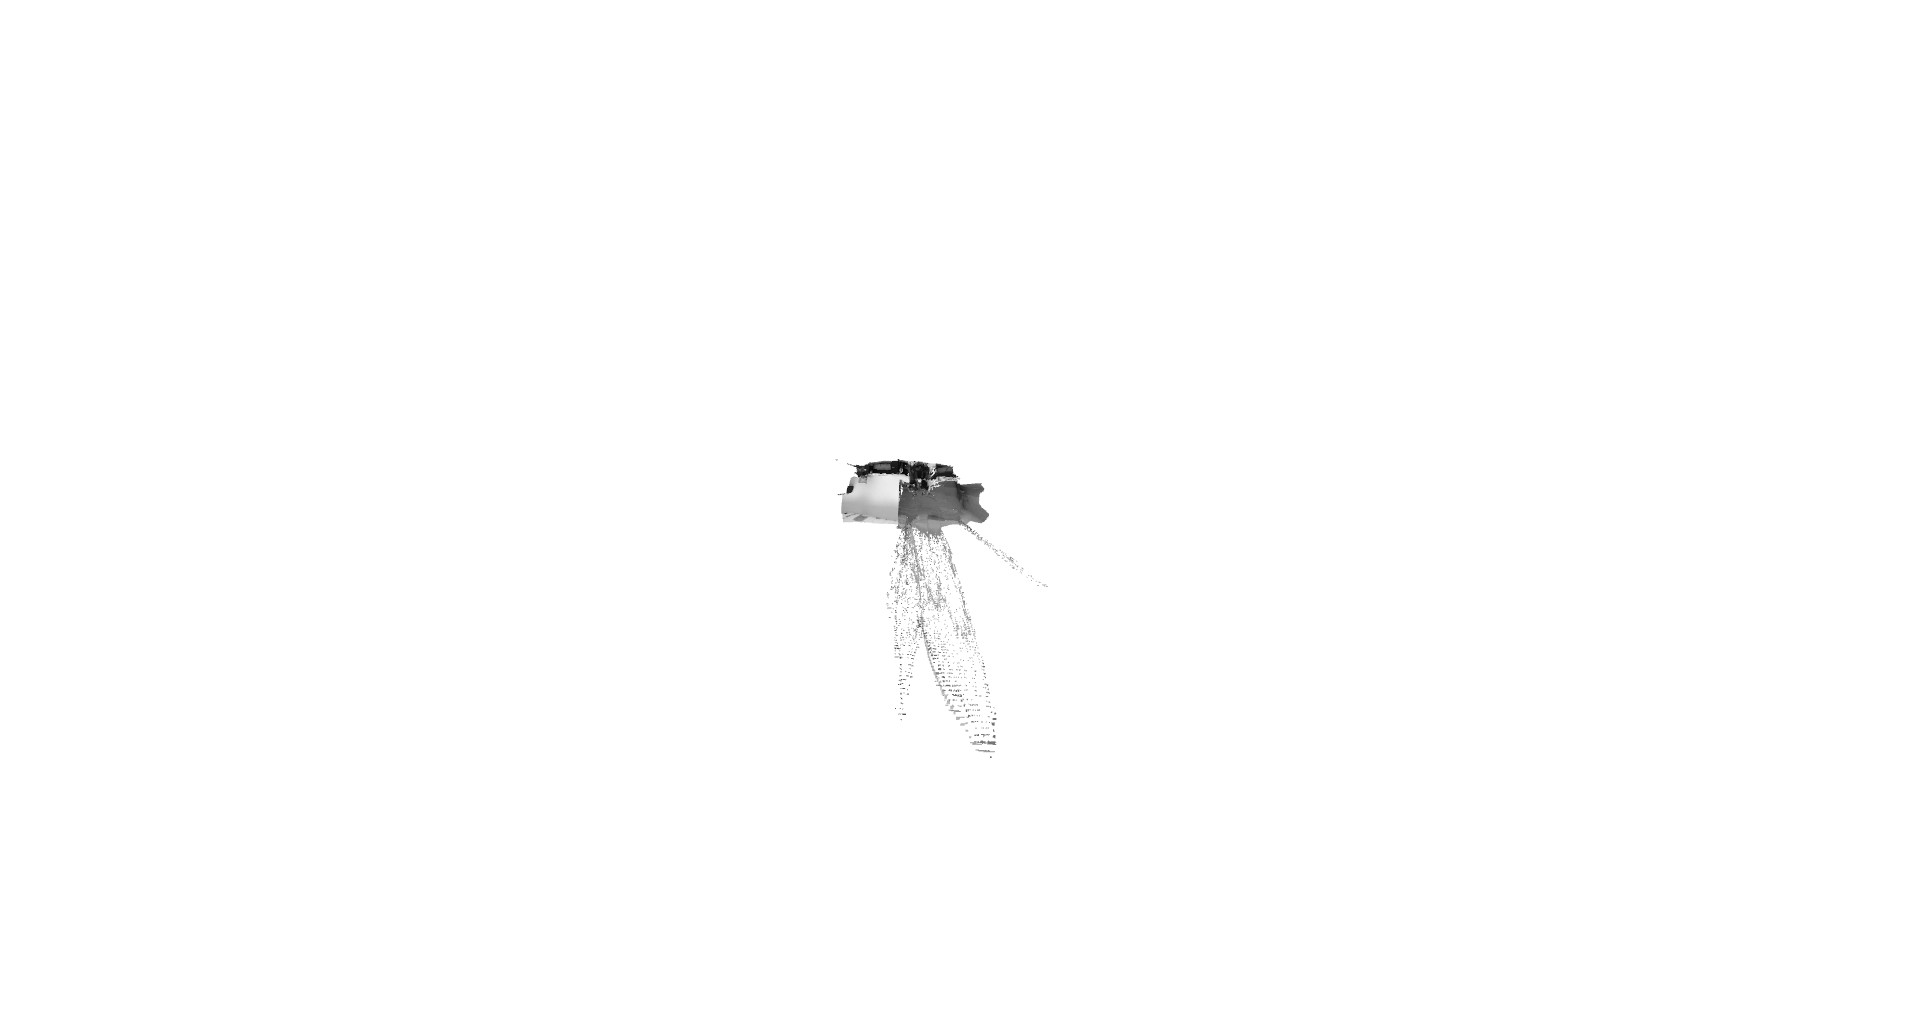
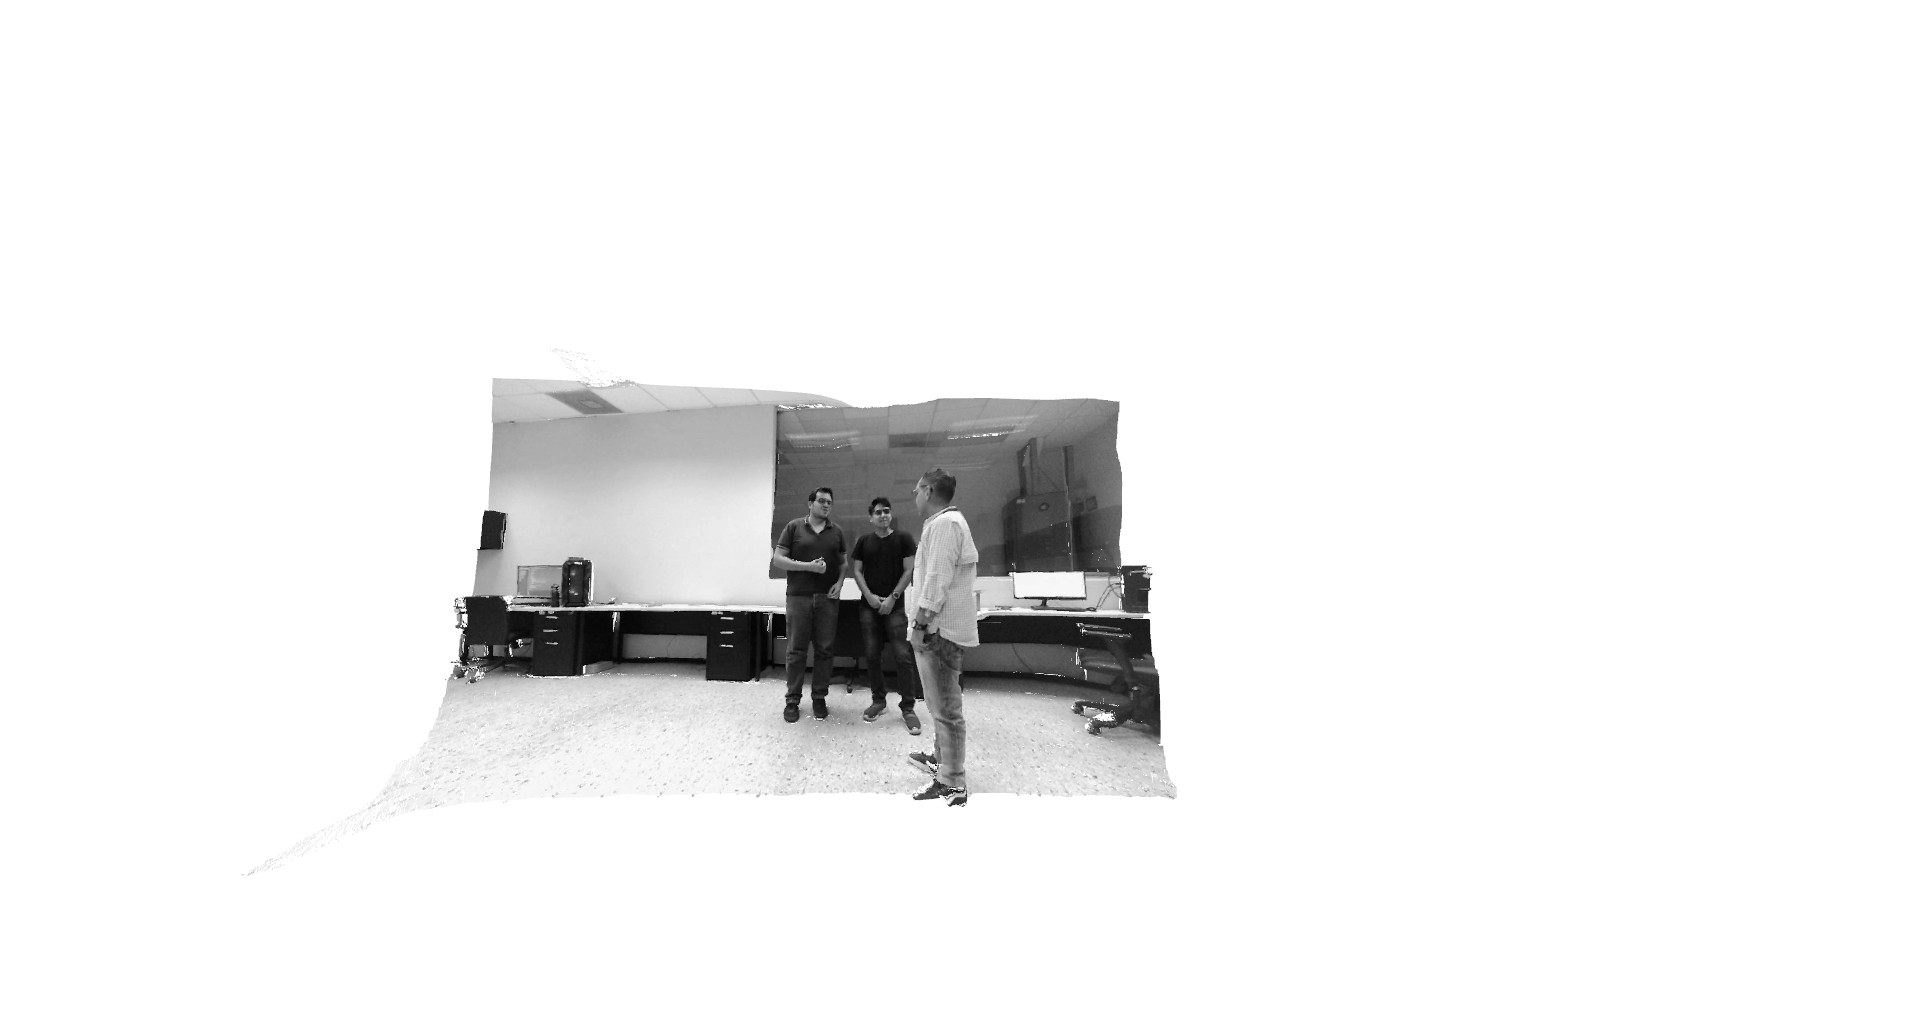
Fix video visualization

Changed region(s): [[0.2188, 0.3661, 0.625, 0.7933]]

diff --git a/dense_point_cloud/video_visualization.py b/dense_point_cloud/video_visualization.py
@@ -28,40 +28,34 @@ pista_nombre = 'dense'  # Dejar vacío si no se necesita
 archivos = listar_archivos(carpeta, extension, pista_nombre)
 archivos = sorted(archivos, key=lambda s: int(re.findall(r'\d+', s)[1]))
 
-
+# Configuración de la vista
 view_config = {
 	"class_name" : "ViewTrajectory",
 	"interval" : 29,
+	"is_loop" : False,
 	"trajectory" : 
 	[
 		{
 			"boundingbox_max" : [ 219.53413391113281, 58.269557952880859, 850.05814117438558 ],
-			"boundingbox_min" : [ -90.282096862792969, -116.62229156494141, -0.59999999999999998 ],
+			"boundingbox_min" : [ -90.282096862792969, -116.62229156494141, 128.92579828803204 ],
 			"field_of_view" : 60.0,
-			"front" : [ -0.095835554820780974, 0.019926798296555224, -0.99519770354530135 ],
-			"lookat" : [ 30.82705712235359, -8.267747845649291, 440.96600777414471 ],
-			"up" : [ -0.041756373084997557, -0.99899999246766535, -0.015981875872099108 ],
-			"zoom" : 0.19999999999999998
+			"front" : [ -0.15400912808486886, 0.063930216408084758, -0.98599904457182619 ],
+			"lookat" : [ 63.96267639013162, -23.613847096141424, 425.1933447008775 ],
+			"up" : [ -0.015984158157384746, -0.99793523684373786, -0.062207473454824309 ],
+			"zoom" : 0.2999999999999996
 		}
 	],
 	"version_major" : 1,
 	"version_minor" : 0
 }
 
-
 # Crear un objeto de visualización y ventana
 vis = o3d.visualization.Visualizer()
 vis.create_window()
 
-print(vis.get_view_control())
-
-vis.get_view_control().set_front(view_config["trajectory"][0]["front"])
-vis.get_view_control().set_lookat(view_config["trajectory"][0]["lookat"])
-vis.get_view_control().set_up(view_config["trajectory"][0]["up"])
-vis.get_view_control().set_zoom(view_config["trajectory"][0]["zoom"])
-
+# Ajustar opciones de renderizado
 opt = vis.get_render_option()
-opt.point_size = 1
+opt.point_size = 1.0
 
 # Crear objeto de nube de puntos
 point_cloud_o3d = o3d.geometry.PointCloud()
@@ -72,11 +66,11 @@ translation_index = 0
 translation_speed = 0.01
 first_call = True
 counter = 0
+
 # Iterar sobre los archivos y mostrarlos en secuencia
 for archivo in archivos:
     office = o3d.io.read_point_cloud(os.path.join(carpeta, archivo))
     points = np.asarray(office.points) + translation_index * translation_speed
-    
 
     # Modificar la nube de puntos original para mostrar una secuencia
     point_cloud_o3d.points = o3d.utility.Vector3dVector(points)
@@ -84,21 +78,28 @@ for archivo in archivos:
 
     # Añadir o actualizar objetos geométricos
     if first_call:
-        vis.add_geometry(point_cloud_o3d, )  # Añadir la nube de puntos
+        vis.add_geometry(point_cloud_o3d)  # Añadir la nube de puntos
+
+        # Configurar la vista
+        view_ctl = vis.get_view_control()
+        view_ctl.set_front(view_config["trajectory"][0]["front"])
+        view_ctl.set_lookat(view_config["trajectory"][0]["lookat"])
+        view_ctl.set_up(view_config["trajectory"][0]["up"])
+        view_ctl.set_zoom(view_config["trajectory"][0]["zoom"])
+
         first_call = False  # Cambiar la bandera
     else:
         vis.update_geometry(point_cloud_o3d)  # Actualizar la nube de puntos
 
     translation_index += 1
-    
+
     # Actualizar la ventana de visualización
     vis.poll_events()
     vis.update_renderer()
     vis.capture_screen_image(f"{carpeta}/temp_{counter}.jpg")
-    counter +=1
+    counter += 1
     time.sleep(1)  # Esperar 1 segundo antes de mostrar la siguiente nube de puntos
 
 # Mantener la ventana abierta hasta que el usuario la cierre
-
 vis.run()
 vis.destroy_window()
